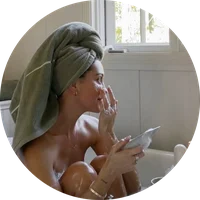
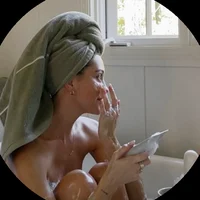
NEURAE: правки по ревью — обложка, ограничения с иконками, аватарки без обводки, серые номера, приложение по центру, лендинг без рамки
Claude-Session: https://claude.ai/code/session_01Uts8gxLTUPFPdNJoAfPScQ

diff --git a/neurae-case.html b/neurae-case.html
@@ -8,7 +8,7 @@
   <link rel="preload" href="assets/fonts/onest-cyrillic.woff2" as="font" type="font/woff2" crossorigin>
   <link rel="stylesheet" href="css/v2.css?v=62">
   <link rel="stylesheet" href="css/case.css?v=62">
-  <link rel="stylesheet" href="css/neurae.css?v=11">
+  <link rel="stylesheet" href="css/neurae.css?v=14">
 </head>
 <body class="theme-ne">
 <div class="wrap">
@@ -30,7 +30,7 @@
       <div><dt>Формат</dt><dd>Коммерческий проект <br>для&nbsp;Sisley Group в&nbsp;БВШД</dd></div>
       <div><dt>Год</dt><dd>2026</dd></div>
     </dl>
-    <figure class="shot ne-hero"><img src="assets/img/neurae/landing-hero.webp" alt="Лендинг и приложение NEURAE" width="1920" height="1147"><span class="ne-hero-ph" aria-hidden="true"><img src="assets/img/neurae/home-1.webp" alt="" width="560" height="1142"><img src="assets/img/neurae/offer.webp" alt="" width="560" height="1142"></span></figure>
+    <figure class="shot ne-hero"><img src="assets/img/neurae/landing-1.webp" alt="Лендинг и приложение NEURAE" width="1920" height="1054"><span class="ne-hero-ph" aria-hidden="true"><img src="assets/img/neurae/home-1.webp" alt="" width="560" height="1142"><img src="assets/img/neurae/offer.webp" alt="" width="560" height="1142"></span></figure>
   </header>
 
   <!-- Кратко -->
@@ -48,8 +48,8 @@
     <header><span class="eyebrow"><span class="num">01</span>&nbsp;· Контекст</span><h2>Создать категорию «нейрокосметика» в&nbsp;России с&nbsp;нуля</h2></header>
     <p class="ne-lead">Премиум рядом с&nbsp;La&nbsp;Mer и&nbsp;La&nbsp;Prairie. Бренд, который решает причину, а&nbsp;не&nbsp;маскирует следствие.</p>
     <div class="ne-cards">
-      <div class="ne-card"><span class="n">01</span><b>Знание о&nbsp;бренде</b><span>За&nbsp;6&nbsp;месяцев до&nbsp;старта продаж</span></div>
-      <div class="ne-card"><span class="n">02</span><b>Кросс-селл</b><span>Сыворотка и&nbsp;ночная маска&nbsp;— один ритуал</span></div>
+      <div class="ne-card"><span class="n">01</span><b>Знание о&nbsp;бренде</b><span>За&nbsp;полгода до&nbsp;старта продаж</span></div>
+      <div class="ne-card"><span class="n">02</span><b>Кросс-селл</b><span>Сыворотка и&nbsp;маска в&nbsp;одном ритуале</span></div>
       <div class="ne-card"><span class="n">03</span><b>Клуб клиентов</b><span>Сообщество вокруг self&#8209;care</span></div>
     </div>
   </section>
@@ -57,14 +57,14 @@
   <!-- 02 Ограничения -->
   <section class="sec card ne-tight">
     <header><span class="eyebrow"><span class="num">02</span>&nbsp;· Ограничения</span><h2>Работали в&nbsp;жёстких рамках заказчика</h2></header>
-    <ul class="ne-rules">
-      <li><b>Режим тишины</b><span>Имя Sisley не&nbsp;используем</span></li>
-      <li><b>Только корнеры</b><span>Без своего магазина бренда</span></li>
-      <li><b>Соцсети РФ</b><span>Без заблокированных платформ</span></li>
-      <li><b>Глобальная формула</b><span>Без адаптации под&nbsp;рынок</span></li>
-      <li><b>Старт 1&nbsp;октября</b><span>Без прелонча</span></li>
-      <li><b>Без промо</b><span>Никаких скидок и&nbsp;распродаж</span></li>
-    </ul>
+    <div class="ne-future ne-rules2">
+      <div class="ne-idea"><svg viewBox="0 0 24 24" fill="none" stroke="currentColor" stroke-width="1.5" stroke-linecap="round" stroke-linejoin="round" aria-hidden="true"><path d="M4 4l16 16"/><path d="M9.5 5.2A7 7 0 0 1 19 12a7 7 0 0 1-1.2 3.9M15.8 18A7 7 0 0 1 5 12c0-1.4.4-2.7 1.1-3.8"/></svg><b>Режим тишины</b><span>Имя Sisley не&nbsp;используем</span></div>
+      <div class="ne-idea"><svg viewBox="0 0 24 24" fill="none" stroke="currentColor" stroke-width="1.5" stroke-linecap="round" stroke-linejoin="round" aria-hidden="true"><path d="M4 10l1.5-5h13L20 10"/><path d="M5 10v9h14v-9M4 10h16M10 19v-5h4v5"/></svg><b>Только корнеры</b><span>Без своего магазина бренда</span></div>
+      <div class="ne-idea"><svg viewBox="0 0 24 24" fill="none" stroke="currentColor" stroke-width="1.5" stroke-linecap="round" stroke-linejoin="round" aria-hidden="true"><rect x="7" y="3" width="10" height="18" rx="2"/><path d="M11 18h2"/></svg><b>Соцсети РФ</b><span>Только разрешённые площадки</span></div>
+      <div class="ne-idea"><svg viewBox="0 0 24 24" fill="none" stroke="currentColor" stroke-width="1.5" stroke-linecap="round" stroke-linejoin="round" aria-hidden="true"><circle cx="12" cy="12" r="8"/><path d="M4 12h16M12 4c2.5 2.5 2.5 13.5 0 16M12 4c-2.5 2.5-2.5 13.5 0 16"/></svg><b>Глобальная формула</b><span>Без адаптации под&nbsp;рынок</span></div>
+      <div class="ne-idea"><svg viewBox="0 0 24 24" fill="none" stroke="currentColor" stroke-width="1.5" stroke-linecap="round" stroke-linejoin="round" aria-hidden="true"><rect x="4" y="5" width="16" height="15" rx="2"/><path d="M4 10h16M9 3v4M15 3v4"/></svg><b>Старт 1&nbsp;октября</b><span>Без прелонча</span></div>
+      <div class="ne-idea"><svg viewBox="0 0 24 24" fill="none" stroke="currentColor" stroke-width="1.5" stroke-linecap="round" stroke-linejoin="round" aria-hidden="true"><path d="M4 12V5a1 1 0 0 1 1-1h7l8 8-8 8-8-8z"/><path d="M9 14l6-6"/></svg><b>Без промо</b><span>Никаких скидок и&nbsp;распродаж</span></div>
+    </div>
   </section>
 
   <!-- 03 Рыночный контекст -->
@@ -124,8 +124,7 @@
     <header><span class="eyebrow"><span class="num">03</span>&nbsp;· Лендинг</span><h2>Пространство бренда без&nbsp;интернет-магазина</h2></header>
     <div class="ne-theses"><span>Блог о&nbsp;нейробиологии</span><span>Нейромедитации</span><span>Адреса корнеров вместо «Купить»</span></div>
     <div class="ne-browser">
-      <div class="bar" aria-hidden="true"><i></i><i></i><i></i><span>neurae.com</span></div>
-      <div class="ne-view" data-scroll><div class="ne-page">
+            <div class="ne-view" data-scroll><div class="ne-page">
         <img src="assets/img/neurae/landing-1.webp" alt="Первый экран: уход за лицом нового поколения через эмоции" loading="eager" width="1920" height="1054">
         <img src="assets/img/neurae/landing-2.webp" alt="Технология N|A3: доказанная связь кожи и мозга" loading="lazy" width="1920" height="1051">
         <img src="assets/img/neurae/landing-3.webp" alt="Продукты: четыре состояния" loading="lazy" width="1920" height="1051">
@@ -133,7 +132,6 @@
         <img src="assets/img/neurae/landing-5.webp" alt="Афиша мероприятий" loading="lazy" width="1920" height="964">
         <img src="assets/img/neurae/landing-6.webp" alt="Тестирование: узнай, что происходит с твоей кожей" loading="lazy" width="1920" height="1051">
       </div></div>
-      <div class="ne-lsteps" role="group" aria-label="Экраны лендинга"><button type="button" aria-label="Экран 1"><i></i></button><button type="button" aria-label="Экран 2"><i></i></button><button type="button" aria-label="Экран 3"><i></i></button><button type="button" aria-label="Экран 4"><i></i></button><button type="button" aria-label="Экран 5"><i></i></button><button type="button" aria-label="Экран 6"><i></i></button></div>
     </div>
 
   </section>
@@ -189,7 +187,7 @@
         <figure><img src="assets/img/neurae/final-7.webp" alt="Команду поздравляют после защиты" loading="lazy" width="1400" height="934" style="object-position:50% 45%"></figure>
         <figure><img src="assets/img/neurae/final-8.webp" alt="Логотип NEURAE на экране презентации" loading="lazy" width="1400" height="934" style="object-position:50% 50%"></figure>
       </div>
-      <div class="nav"><button type="button" class="prev" aria-label="Назад"><svg width="20" height="20" viewBox="0 0 24 24" fill="none" stroke="currentColor" stroke-width="2" stroke-linecap="round" stroke-linejoin="round"><path d="M15 18l-6-6 6-6"/></svg></button><button type="button" class="next-b" aria-label="Вперёд"><svg width="20" height="20" viewBox="0 0 24 24" fill="none" stroke="currentColor" stroke-width="2" stroke-linecap="round" stroke-linejoin="round"><path d="M9 6l6 6-6 6"/></svg></button></div>
+      <div class="ne-gnav"><button type="button" class="prev" aria-label="Назад"><svg width="20" height="20" viewBox="0 0 24 24" fill="none" stroke="currentColor" stroke-width="2" stroke-linecap="round" stroke-linejoin="round"><path d="M15 18l-6-6 6-6"/></svg></button><button type="button" class="next-b" aria-label="Вперёд"><svg width="20" height="20" viewBox="0 0 24 24" fill="none" stroke="currentColor" stroke-width="2" stroke-linecap="round" stroke-linejoin="round"><path d="M9 6l6 6-6 6"/></svg></button></div>
     </div>
   </section>
 
@@ -245,7 +243,7 @@ document.querySelectorAll('[data-tabs]').forEach(function(g){
 });
 /* итог: фото листаются по две */
 document.querySelectorAll('[data-gallery]').forEach(function(g){
-  var tr=g.querySelector('.track'),p=g.querySelector('.prev'),n=g.querySelector('.next-b');
+  var tr=g.querySelector('.track'),p=g.querySelector('.ne-gnav .prev'),n=g.querySelector('.ne-gnav .next-b');
   function step(){return tr.clientWidth/ (matchMedia('(max-width:760px)').matches?1:2)}
   function upd(){p.disabled=tr.scrollLeft<4;n.disabled=tr.scrollLeft+tr.clientWidth>=tr.scrollWidth-4}
   p.addEventListener('click',function(){tr.scrollBy({left:-step(),behavior:'smooth'})});
@@ -264,7 +262,7 @@ document.querySelectorAll('[data-slides]').forEach(function(box){
 });
 /* лендинг: страница листается по экранам с паузой, пока окно видно */
 document.querySelectorAll('[data-scroll]').forEach(function(v){
-  var page=v.querySelector('.ne-page'),im=[].slice.call(page.children),dots=[].slice.call(v.parentNode.querySelectorAll('.ne-lsteps button')),i=0,t=null,vis=false;
+  var page=v.querySelector('.ne-page'),im=[].slice.call(page.children),dots=[],i=0,t=null,vis=false;
   var reduce=matchMedia('(prefers-reduced-motion: reduce)').matches;
   function go(n){i=(n+im.length)%im.length;var max=page.scrollHeight-v.clientHeight;page.style.transform='translateY('+(-Math.min(im[i].offsetTop,max))+'px)';
     dots.forEach(function(d,k){d.classList.toggle('on',k===i)});clearTimeout(t);if(vis&&!reduce)t=setTimeout(function(){go(i+1)},i===im.length-1?3600:2800)}

diff --git a/css/neurae.css b/css/neurae.css
@@ -346,3 +346,51 @@
 .ne-lsteps i{display:block;height:3px;border-radius:2px;background:rgba(43,35,29,.18);transition:background .3s}
 .ne-lsteps .on i{background:var(--ne-brown)}
 .ne-lsteps button:focus-visible{outline:2px solid var(--ne-brown);outline-offset:2px}
+
+/* ===== правки 02.11 вечер ===== */
+/* номера везде светло-серые */
+.theme-ne .eyebrow .num,.ne-card .n,.ne-offer .n,.ne-tech li::before{color:var(--ink-3)}
+/* обложка: чистый экран лендинга заполняет кадр */
+.hero .shot.ne-hero > img{filter:brightness(.85)}
+/* контекст: всё в одну строку */
+.ne-card b,.ne-card span:last-child{white-space:nowrap;overflow:hidden;text-overflow:ellipsis}
+/* ограничения: карточки с иконками, 3×2 */
+.ne-rules2{grid-template-columns:repeat(3,minmax(0,1fr))}
+.ne-rules2 .ne-idea{min-height:170px}
+.ne-rules2 .ne-idea span{min-height:0}
+/* аватарки без обводки */
+.ne-mind .ava,.ne-mind.focus .ava{background:none}
+/* что предложили: фото на всю плашку */
+.ne-offer .pic{display:block}
+.ne-offer .pic img{display:block;width:100%;height:100%;object-fit:cover}
+.ne-offer .pic.phone{display:grid}
+/* приложение: больше воздуха, всё по центру */
+.ne-app{align-items:center;gap:var(--s-6);padding:var(--s-6) var(--s-6) var(--s-7)}
+.ne-seg{align-self:center}
+.ne-panel{width:100%;max-width:1000px;gap:var(--s-6)}
+.ne-panel img{max-width:230px}
+.ne-panel figcaption{margin-top:var(--s-2)}
+/* лендинг: просто окно со скроллом, без рамки браузера */
+.ne-browser{box-shadow:none;background:none}
+.ne-view{border-radius:var(--r-in)}
+/* галерея итога: стрелки */
+.ne-gnav{display:flex;gap:var(--s-2);justify-content:flex-end}
+.ne-gnav button{all:unset;cursor:pointer;width:48px;height:48px;border-radius:50%;display:grid;place-items:center;background:var(--ne-beige);color:var(--ink);transition:background .2s,opacity .2s}
+.ne-gnav button:hover{background:var(--ne-beige-2)}
+.ne-gnav button:disabled{opacity:.35;cursor:default}
+.ne-gnav button:focus-visible{outline:2px solid var(--ne-brown);outline-offset:2px}
+@media (max-width:1000px){ .ne-rules2{grid-template-columns:repeat(2,minmax(0,1fr))} }
+@media (max-width:760px){
+  .ne-card b,.ne-card span:last-child{white-space:normal}
+  .ne-rules2 .ne-idea{min-height:140px}
+  .ne-app{padding:var(--s-5) 0;gap:var(--s-4);align-items:stretch}
+  .ne-seg{align-self:center;margin:0}
+  .ne-panel{gap:var(--s-3)}
+  .ne-gnav{display:none}
+}
+.ne-mind .ava,.ne-mind.focus .ava{box-shadow:none}
+@media (max-width:760px){
+  .ne-app{padding:var(--s-4) 0 var(--s-5)}
+  .ne-seg{max-width:calc(100% - 2 * var(--s-4))}
+  .ne-seg button{padding:0 12px;font-size:14px}
+}
